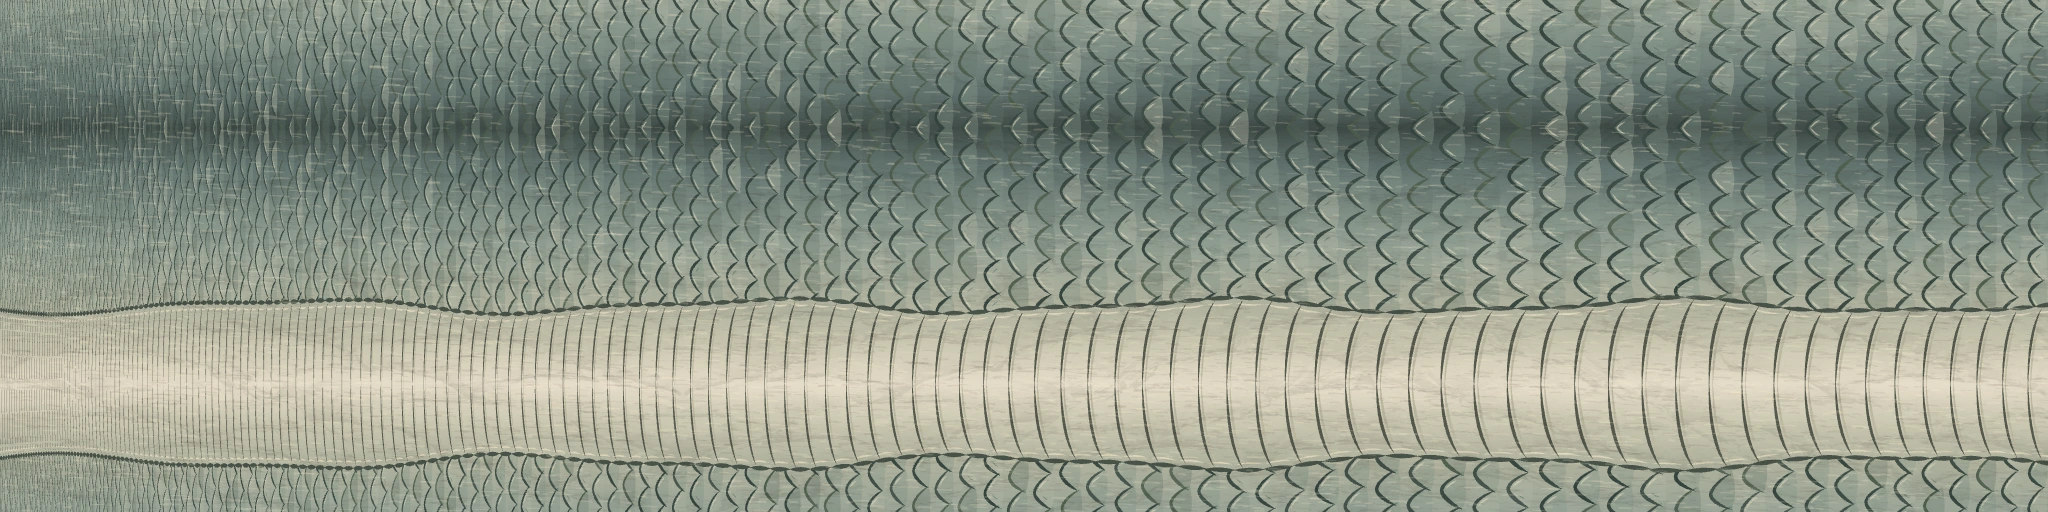
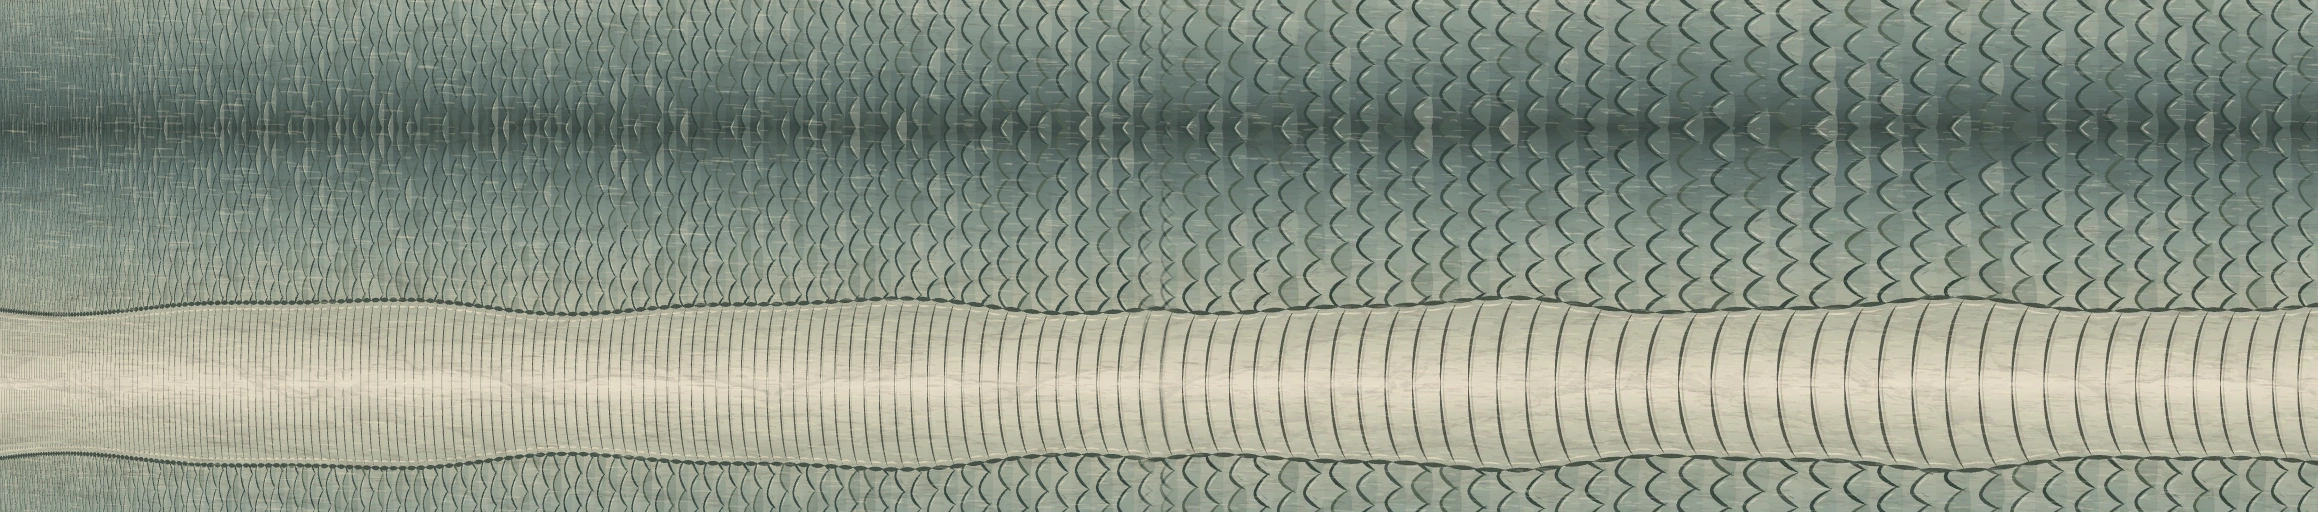
Carve a sixty-metre dragon tail while preserving the head and torso

Changed region(s): [[0.0, 0.0, 1.0, 1.0]]

diff --git a/two/dragon-anatomy.js b/two/dragon-anatomy.js
@@ -26,9 +26,9 @@ export function dragonTorsoJoint(i) {
   return {point:torso.getPoint(t),tangent:torso.getTangent(t),radius:torsoSections[Math.round(station*16)-5][4]};
 }
 
-// Hip→tip: pelvic muscle, low belly of the sweep, rising whip, narrower
-// countercurve, lifted brush. The first handle continues the hip's exact tangent.
-// Adjacent spans share tangents, including the small turn back at the very end.
+// Keep the two weight-bearing spans below the hip intact. Beyond them a longer
+// rising sweep rolls off the side of the flank, falls into a shallow counterbend
+// and lifts its quill. Adjacent Béziers meet with identical tangent vectors.
 const hipTangent=torso.getTangent(hipT);
 hipTangent.z*=dragonLengthScale;
 hipTangent.normalize();
@@ -36,9 +36,11 @@ const hipWaveSlope=hipTangent.z*localZ;
 const handles=[
   [0,0,0],hipTangent.clone().multiplyScalar(-.45).toArray(),[-.43,-.50,-.91],[-.36,-.52,-1.44],
   [-.29,-.54,-1.97],[-.02,-.35,-2.27],[.20,-.12,-2.66],
-  [.42,.11,-3.05],[.50,.30,-3.584994],[.31,.41,-3.814994],
-  [.12,.52,-4.044994],[-.025,.49,-4.399988],[-.077,.67,-4.529988],
-  [-.129,.85,-4.659988],[-.07,.97,-4.629988],[.012,1.01,-4.579988]
+  [.42,.11,-3.05],[.54,.36,-3.43],[.47,.40,-3.84],
+  [.40,.44,-4.25],[.18,.29,-4.373197],[.02,.26,-4.624040],
+  [-.14,.23,-4.874882],[-.22,.29,-5.104882],[-.20,.43,-5.354882],
+  [-.18,.57,-5.604882],[-.11,.77,-5.734882],[-.04,.89,-5.804882],
+  [.03,1.01,-5.874882],[.10,1.09,-5.904882],[.16,1.13,-5.894882]
 ].map(p=>new Vector3(...p));
 const spans=[];
 let tailLength=0;
@@ -50,15 +52,17 @@ for(let k=0;k<handles.length-1;k+=3) {
   tailLength+=length;
 }
 
-// Successive flesh sections thin continuously from the leg muscle to the quill.
-// C¹ Hermite interpolation lets each adjoining pair share a slope.
+// Distances from the hip are physical. The proximal muscle and the feathering
+// under the brush keep their original widths. The additional middle vertebrae
+// each have their own narrowing section; adjacent lofts share a girth tangent.
 const radii=[
-  [0,hipRadii.x,hipRadii.y],[.12,.212,.219],[.29,.181,.175],
-  [.48,.135,.124],[.65,.100,.088],[.79,.069,.061],[.90,.039,.034],
-  [.965,.017,.015],[1,.003,.003]
+  [0,hipRadii.x,hipRadii.y],[.67795,.212,.219],[1.63837,.181,.175],
+  [2.71179,.135,.124],[3.42,.120,.109],[4.18,.105,.096],[4.86,.092,.083],
+  [5.53,.079,.071],[tailLength-1.18641,.069,.061],[tailLength-.56496,.039,.034],
+  [tailLength-.19773,.017,.015],[tailLength,.003,.003]
 ];
-function sectionRadius(f,k,axis) {
-  const a=radii[k], b=radii[k+1], step=b[0]-a[0], t=(f-a[0])/step;
+function sectionRadius(distance,k,axis) {
+  const a=radii[k], b=radii[k+1], step=b[0]-a[0], t=(distance-a[0])/step;
   const l=radii[Math.max(0,k-1)], r=radii[Math.min(radii.length-1,k+2)];
   const ma=(b[axis]-l[axis])/(b[0]-l[0]), mb=(r[axis]-a[axis])/(r[0]-a[0]);
   return (1+2*t)*(1-t)**2*a[axis]+t*(1-t)**2*step*ma
@@ -74,7 +78,7 @@ export function dragonTailSection(distanceFromTip) {
   across.z*=localZ;up.z*=localZ;tangent.z*=localZ;
   const f=d/tailLength;
   let k=0;
-  while(k<radii.length-2 && radii[k+1][0]<f)k++;
+  while(k<radii.length-2 && radii[k+1][0]<d)k++;
   // The hip joins an existing pitched transverse section of the torso.
   // Ease into that original section over the first half body unit.
   if(d<.55) {
@@ -82,14 +86,15 @@ export function dragonTailSection(distanceFromTip) {
     across.lerp(fore.across,blend);up.lerp(fore.up,blend);
   }
   return {x:hip.x+p.x,y:hip.y+p.y,z:hip.z+p.z*localZ,
-    rx:sectionRadius(f,k,1),ry:sectionRadius(f,k,2),across,up,tangent,distance:tailLength-d,
+    rx:sectionRadius(d,k,1),ry:sectionRadius(d,k,2),across,up,tangent,distance:tailLength-d,
     // Carry the pulse down the spine even where the tip folds back toward the head.
     waveZ:hip.z-hipWaveSlope*d-.08*d*f};
 }
 
 // One skin and one atlas cross the hip. Distance increases from the ink tip
 // towards the neck and includes the trunk's z scale before world placement.
-export const dragonHipRing=96;
+// Keep neighbouring rings about half a world metre apart at the dragon's stature.
+export const dragonHipRing=Math.round(tailLength/.059);
 export const dragonRings=Array.from({length:dragonHipRing+1},(_,j)=>dragonTailSection(tailLength*j/dragonHipRing));
 for(let j=1;j<=64;j++) {
   const t=hipT+(1-hipT)*j/64,p=torso.getPoint(t),r=girth.getPoint(t),tangent=torso.getTangent(t);

diff --git a/two/index.html b/two/index.html
@@ -122,17 +122,17 @@
           "./bath-pavilion-art.js": "./bath-pavilion-art.js?v=amimoto-yudono-1",
           "./regional-bath-carpentry.js": "./regional-bath-carpentry.js?v=amimoto-yudono-1",
           "./actors.js": "./actors.js?v=kirin-zuiun-1",
-          "./animal-scale-book.js": "./animal-scale-book.js?v=sculpted-tail-1",
-          "./animal-scale-residents.js": "./animal-scale-residents.js?v=sculpted-tail-1",
+          "./animal-scale-book.js": "./animal-scale-book.js?v=dragon-60m-1",
+          "./animal-scale-residents.js": "./animal-scale-residents.js?v=dragon-60m-1",
           "./animal-motion.js": "./animal-motion.js?v=sculpted-tail-1",
           "./roof-shell.js": "./roof-shell.js?v=emaki-landscape-1-otowa-1",
           "./architecture.js": "./architecture.js?v=emaki-landscape-1-otowa-1",
           "./atmosphere.js": "./atmosphere.js?v=island-horizon-2",
-          "./beast-art.js": "./beast-art.js?v=sculpted-tail-1",
-          "./bestiary.js": "./bestiary.js?v=sculpted-tail-1",
+          "./beast-art.js": "./beast-art.js?v=dragon-60m-1",
+          "./bestiary.js": "./bestiary.js?v=dragon-60m-1",
           "./craftwork.js": "./craftwork.js?v=sakuragawa-yumeguri",
           "./crane-flight.js": "./crane-flight.js?v=3.3",
-          "./dragon-anatomy.js": "./dragon-anatomy.js?v=sculpted-tail-1",
+          "./dragon-anatomy.js": "./dragon-anatomy.js?v=dragon-60m-1",
           "./dragon-flight.js": "./dragon-flight.js?v=kirin-zuiun-1",
           "./festival.js": "./festival.js?v=mochiyori-2",
           "./forest-forms.js": "./forest-forms.js?v=3.3",
@@ -166,7 +166,7 @@
           "./places.js": "./places.js?v=emaki-funatabi-1",
           "./predator-trails.js": "./predator-trails.js?v=winter-coast-1",
           "./preparation.js": "./preparation.js?v=handscroll-arrival-1",
-          "./procession-view.js": "./procession-view.js?v=sculpted-tail-1",
+          "./procession-view.js": "./procession-view.js?v=dragon-60m-1",
           "./procession.js": "./procession.js?v=sakuragawa-yumeguri",
           "./resident-art.js": "./resident-art.js?v=mochiyori-2",
           "./scanned-stone.js": "./scanned-stone.js?v=handscroll-arrival-1",
@@ -299,7 +299,7 @@
     </script>
     <link rel="modulepreload" href="./vendor/three.core.min.js" />
     <link rel="modulepreload" href="./vendor/three.module.min.js" />
-    <link rel="modulepreload" href="./main.js?v=island-horizon-2" />
+    <link rel="modulepreload" href="./main.js?v=dragon-60m-1" />
     <link rel="preload" as="fetch" crossorigin href="./assets/actors/nikkori/nikkori.glb?v=onsen-float" />
   </head>
   <body>
@@ -548,7 +548,7 @@
         if (window.pendingMochiJourney) history.replaceState(history.state, '', window.pendingMochiJourney);
         location.reload();
       };
-      import('./main.js?v=island-horizon-2').catch(error => {
+      import('./main.js?v=dragon-60m-1').catch(error => {
         console.error('Mochi Quest 2', error);
         document.getElementById('loading-copy').textContent = error.name === 'WebGLUnavailableError'
           ? 'WebGL 2 を開始できませんでした。ブラウザのグラフィック設定を確認して、読み込み直してください。'

diff --git a/two/beast-art.js b/two/beast-art.js
@@ -54,7 +54,7 @@ function coat(type, detail) {
     coats.set(key, material);
   }
   if (!coatLoads.has(key)) {
-    const file=key+'.webp'+(key==='dragon-body'?'?v=anatomic-tail-1':type==='dragon'?'?v=ink-dragon-1':'');
+    const file=key+'.webp'+(key==='dragon-body'?'?v=dragon-60m-1':type==='dragon'?'?v=ink-dragon-1':'');
     const url = new URL('./assets/bestiary/' + file, import.meta.url).href;
     const request = demandPaint(() => coatLoader.loadAsync(url).then(image => {
       image.colorSpace = THREE.SRGBColorSpace;
@@ -104,11 +104,15 @@ function pelt(parent,type,sections,mask=false) {
   const center=new THREE.Vector3(),r=new THREE.Vector3();
   for(let j=0;j<=rows;j++){
     const t=j/rows,ring=dragonBody?dragonRings[j]:null;
-    let u=t;
+    let u=t, flankPhase=0;
     if(ring) {
       center.copy(ring);r.set(ring.rx,ring.ry,0);
       across.copy(ring.across);up.copy(ring.up);
-      u=ring.distance/dragonRings.at(-1).distance;
+      const total=dragonRings.at(-1).distance;
+      u=ring.distance/total;
+      // Place the shallow scale relief by distance from the neck, fixing its
+      // pitch on the torso as well as on newly carved tail sections.
+      flankPhase=(ring.distance-total)*TAU/.3768804;
     } else {
       line.getPoint(t,center);dims.getPoint(t,r);line.getTangent(t,tangent);
       across.set(1,0,0).addScaledVector(tangent,-tangent.x).normalize();
@@ -120,7 +124,7 @@ function pelt(parent,type,sections,mask=false) {
       // Broad ventral shields and a narrow dorsal spine give the dragon a
       // keeled section. A circular tube catches a hard, plastic highlight.
       const keel=dragonBody ? .17*Math.max(0,angular)**12-.075*Math.max(0,-angular)**4 : 0;
-      const flank=dragonBody ? 1+.026*Math.cos(u*TAU*30+a*.72)*Math.cos(a)**2 : 1;
+      const flank=dragonBody ? 1+.026*Math.cos(flankPhase+a*.72)*Math.cos(a)**2 : 1;
       point.copy(center).addScaledVector(across,Math.cos(a)*Math.max(.002,r.x)*flank)
         .addScaledVector(up,(angular+keel)*Math.max(.002,r.y));
       positions.push(...point.toArray());

diff --git a/two/animal-scale-residents.js b/two/animal-scale-residents.js
@@ -17,8 +17,8 @@ export const residentScale = [
     image: "./assets/animal-scale/fox.webp" },
   { id: "tiger", label: "虎", group: "陸の動物", width: 6.551, height: 3.637,
     image: "./assets/animal-scale/tiger.webp" },
-  { id: "dragon", label: "龍", group: "空の動物", width: 92.159, height: 25.29,
-    image: "./assets/animal-scale/dragon.webp?v=sculpted-tail-1", note: "水平飛行時の横姿" },
+  { id: "dragon", label: "龍", group: "空の動物", width: 102.491, height: 25.264,
+    image: "./assets/animal-scale/dragon.webp?v=dragon-60m-1", note: "水平飛行時の横姿。後脚から尾先まで、尾の曲線に沿って60 m" },
   { id: "kirin", label: "麒麟", group: "空の動物", width: 14.643, height: 15.532,
     image: "./assets/animal-scale/kirin.webp", note: "雲を踏む横姿" },
   { id: "deer", label: "鹿", group: "陸の動物", width: 2.34, height: 3.022,

diff --git a/two/animal-scale-book.js b/two/animal-scale-book.js
@@ -79,7 +79,7 @@ function compare(panel, targets) {
   panel.innerHTML = `<div class="scale-pickers"></div>
     <div class="scale-frame"><div class="scale-scene" role="img" aria-label="選んだ動物を同じ縮尺で並べた図"></div></div>
     <table class="scale-table"><thead><tr><th scope="col">動物</th><th scope="col">高さ</th><th scope="col">横幅</th></tr></thead><tbody></tbody></table>
-    <a class="scale-plate-link" href="./assets/bestiary/legend-size.webp?v=sculpted-tail-1" target="_blank" rel="noopener">白餅・麒麟・龍の図を拡大</a>`;
+    <a class="scale-plate-link" href="./assets/bestiary/legend-size.webp?v=dragon-60m-1" target="_blank" rel="noopener">白餅・麒麟・龍の図を拡大</a>`;
   const pickers = panel.querySelector('.scale-pickers');
   selections.forEach((id, i) => {
     const label = document.createElement('label');

diff --git a/two/bestiary.js b/two/bestiary.js
@@ -13,7 +13,7 @@ export const SPECIES = Object.freeze({
   bird:   { count:40, points:30, label:'丹頂', stature:1, frame:3.5, center:.13 },
   fox:    { count:40, points:50, label:'狐', stature:1, frame:2.7, center:.72 },
   tiger:  { count:10, points:100, label:'虎', stature:2.44, frame:3.6, center:.84 },
-  dragon: { count:1, points:1000, label:'龍', stature:8.4, frame:12.4, center:1.37, centerZ:-1.61, skyRange:1200, rigNear:280 },
+  dragon: { count:1, points:1000, label:'龍', stature:8.4, frame:13.6, center:1.39, centerZ:-2.25, skyRange:1200, rigNear:280 },
   kirin:  { count:1, points:1000, label:'麒麟', stature:5.25, frame:4.9, center:1.72, skyRange:384, rigNear:195 },
   deer:   { count:32, points:60, label:'鹿', stature:1.16, frame:3.8, center:1.24 },
   boar:   { count:18, points:60, label:'猪', stature:1.08, frame:3.4, center:.8 },

diff --git a/two/procession-view.js b/two/procession-view.js
@@ -29,7 +29,7 @@ export function beastDrawing(type, variant=0) {
 }
 export const VILLAGERS={poses:6,columns:42,rows:39,width:96,height:104,frameX:2.88,frameY:3.24,center:1.37};
 export const residentFrameX=craft=>craft==='fisher'?3.48:VILLAGERS.frameX;
-export const BEASTS={atlas:'beasts.webp?v=anatomic-tail-1',columns:24,rows:Math.ceil(poseCount/3),width:160,height:160};
+export const BEASTS={atlas:'beasts.webp?v=dragon-60m-1',columns:24,rows:Math.ceil(poseCount/3),width:160,height:160};
 // Three-quarter and broadside views need room for the full brush tail,
 // wingtips and dragon whiskers, including a gutter at the coarsest mip.
 const paddedFrames={bird:4,fox:3.3,tiger:3.8};
